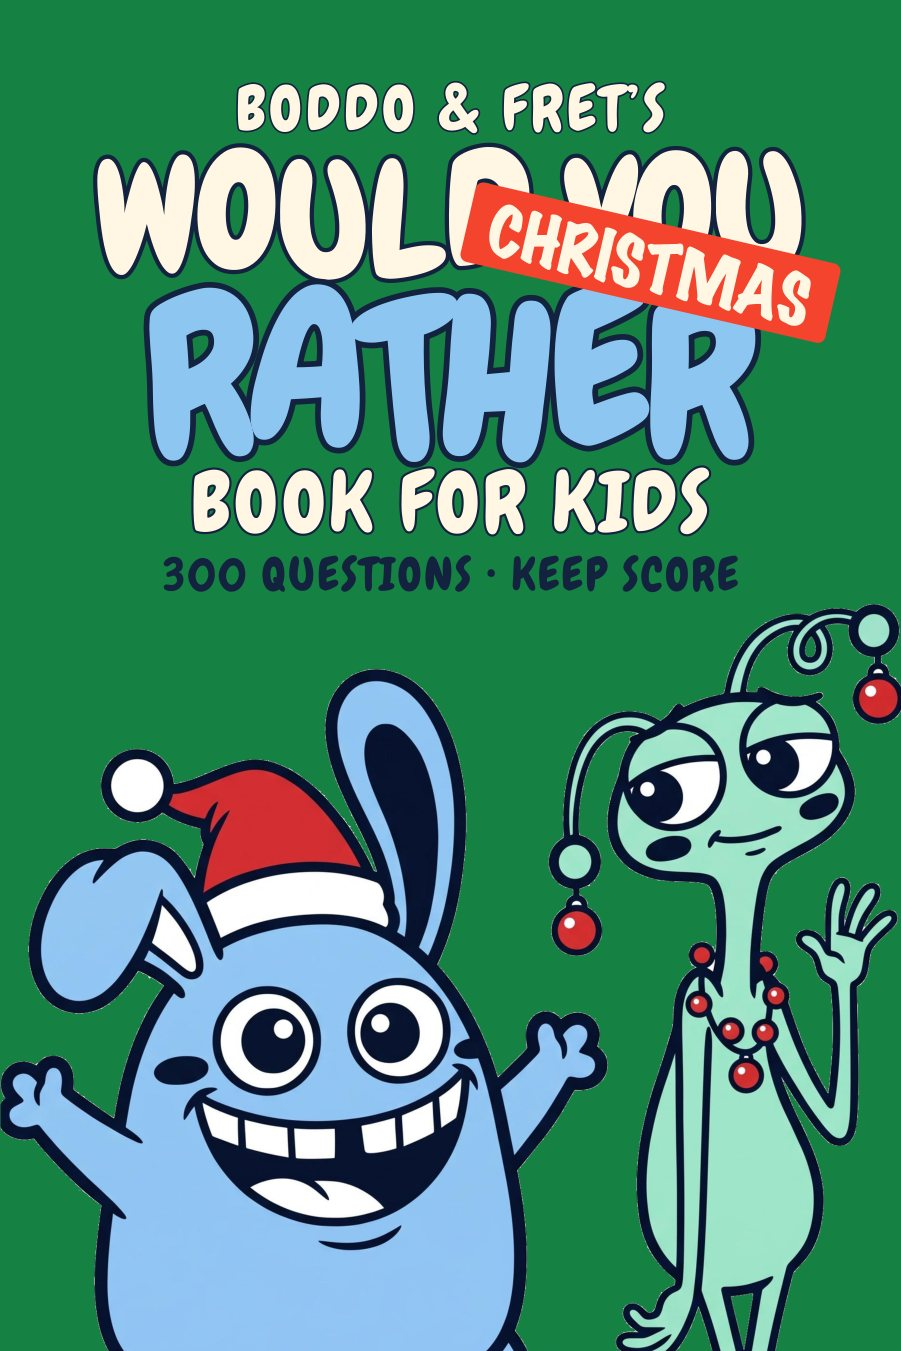
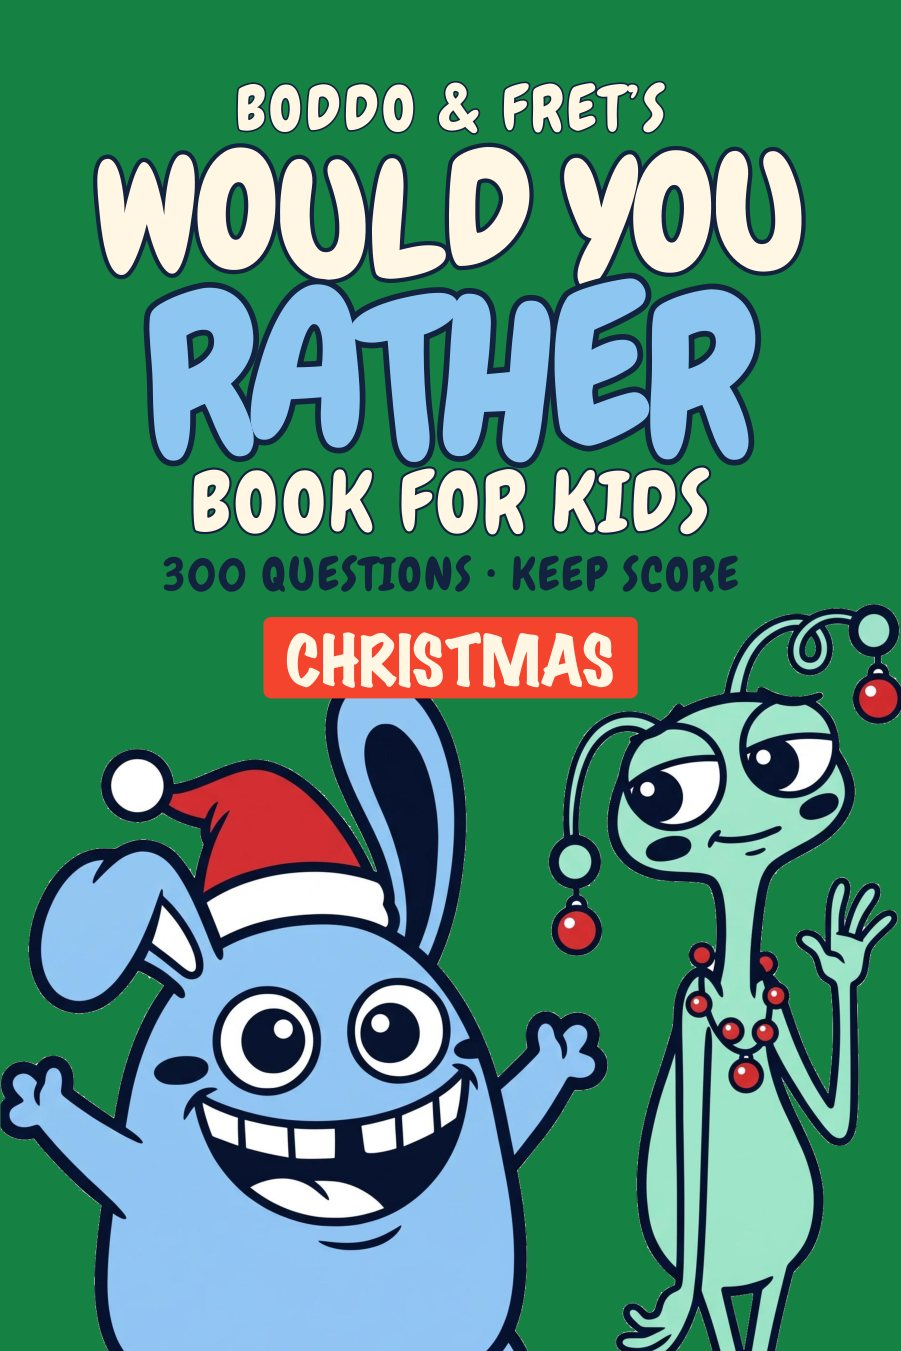
new covers, and the schema.org record stops lying about two things
The three game covers carry the flavour sticker below the phrase now instead of
across it, so the cover crops and the book pages are re-derived. Book 1's cover
is byte-identical — its page changed only in the JSON-LD, below.

⛔ AND READING THE DIFF BEFORE PUSHING FOUND TWO FAULTS IN THE STRUCTURED DATA,
which is the half of a book page a search engine reads and a human never does:

  numberOfPages  110 → 118 on all four. The line builds at 118 by the author's
                 5 Sept decision to run 8 pages over KDP's flat band; 110
                 predates it. A week wrong on four books.
  typicalAgeRange  6-10 → 8-12 on wyr-older. 📌 The FOURTH place today the same
                 6-10 default has been caught printing over a book that says
                 otherwise — after the scaffold writing it into that book's own
                 inputs, A+ module 2's pixels, and A+ module 2's image keywords.

⭐ Both came from `GENRES[...]`, a LINE-level table. The comment directly above
`book_page` already moved four colouring-line facts out of the TEMPLATE and into
GENRES, and was right to — but a page count and an age band are not line facts
either. They now derive per book: the extent off the BUILT interior.pdf, the
band off the edition's own subtitle, with the genre values kept only as the
fallback for a book whose interior does not exist yet.

📌 `CLAUDE.md`: "the build prints it on every run; quote that, never a number
typed in prose."
[…]

Changed region(s): [[0.2797, 0.4352, 0.7148, 0.5285], [0.4972, 0.1244, 0.9323, 0.2487]]

diff --git a/books/wyr-older/index.html b/books/wyr-older/index.html
@@ -21,7 +21,7 @@
 <link rel="icon" href="/favicon.ico" sizes="any">
 <link rel="icon" href="/favicon-32.png" type="image/png" sizes="32x32">
 <link rel="apple-touch-icon" href="/apple-touch-icon.png">
-<script type="application/ld+json">{"@context": "https://schema.org", "@type": "Book", "name": "Boddo & Fret's Would You Rather Book for Older Kids", "author": {"@type": "Organization", "name": "Milo & Moon"}, "publisher": {"@type": "Organization", "name": "Milo & Moon"}, "bookFormat": "https://schema.org/Paperback", "inLanguage": "en-GB", "numberOfPages": 110, "isbn": "9798173473615", "image": "https://miloandmoon.co.uk/books/wyr-older/cover-uk.jpg", "description": "Would you rather be praised for work that was mostly somebody else's, or blamed for work that was mostly somebody else's? Boddo says yes to everything. Fret thinks about what happens next.", "typicalAgeRange": "6-10"}</script>
+<script type="application/ld+json">{"@context": "https://schema.org", "@type": "Book", "name": "Boddo & Fret's Would You Rather Book for Older Kids", "author": {"@type": "Organization", "name": "Milo & Moon"}, "publisher": {"@type": "Organization", "name": "Milo & Moon"}, "bookFormat": "https://schema.org/Paperback", "inLanguage": "en-GB", "numberOfPages": 118, "isbn": "9798173473615", "image": "https://miloandmoon.co.uk/books/wyr-older/cover-uk.jpg", "description": "Would you rather get praised for work that was mostly somebody else's, or blamed for work that was mostly somebody else's? Boddo says yes to everything. Fret thinks about what happens next.", "typicalAgeRange": "8-12"}</script>
 </head>
 <body style="--field:#FFE6E5">
 <a class="skip" href="#main">Skip to content</a>
@@ -48,8 +48,8 @@
       <h1>Boddo &amp; Fret&#x27;s Would You Rather Book for Older Kids</h1>
       <p class="sub">300 Impossible Choices for Kids Ages 8-12</p>
       <p class="lede">300 questions. Harder than they look.</p>
-      <p>Would you rather be praised for work that was mostly somebody else&#x27;s, or blamed for work that was mostly somebody else&#x27;s? Boddo says yes to everything. Fret thinks about what happens next.</p>
-      <ul class="bullets"><li>300 would-you-rather questions, every one a real dilemma</li><li>A game to play with them, not just a list to read</li><li>Screen-free, for car journeys and sleepovers</li></ul>
+      <p>Would you rather get praised for work that was mostly somebody else&#x27;s, or blamed for work that was mostly somebody else&#x27;s? Boddo says yes to everything. Fret thinks about what happens next.</p>
+      <ul class="bullets"><li>300 would-you-rather questions, every one a real dilemma</li><li>A game to play with them, not just a list to read</li><li>Screen-free, for car journeys and sleepovers</li><li>Ten rounds, so you can play one and stop</li><li>Ages 8-12, and two of you can disagree and both be right</li></ul>
       <p class="buy soon">Coming soon — <a href="/colours/">see pages we coloured in</a> while you wait.</p>
       <p class="isbn">ISBN 9798173473615</p>
     </div>

diff --git a/books/wyr-gross/index.html b/books/wyr-gross/index.html
@@ -21,7 +21,7 @@
 <link rel="icon" href="/favicon.ico" sizes="any">
 <link rel="icon" href="/favicon-32.png" type="image/png" sizes="32x32">
 <link rel="apple-touch-icon" href="/apple-touch-icon.png">
-<script type="application/ld+json">{"@context": "https://schema.org", "@type": "Book", "name": "Boddo & Fret's Gross Would You Rather Book for Kids", "author": {"@type": "Organization", "name": "Milo & Moon"}, "publisher": {"@type": "Organization", "name": "Milo & Moon"}, "bookFormat": "https://schema.org/Paperback", "inLanguage": "en-GB", "numberOfPages": 110, "isbn": "9798173473240", "image": "https://miloandmoon.co.uk/books/wyr-gross/cover-uk.jpg", "description": "Would you rather live in a house that smells faintly of feet, or one that smells strongly of fish every Friday? Boddo says yes to everything. Fret thinks about what happens next. Your turn.", "typicalAgeRange": "6-10"}</script>
+<script type="application/ld+json">{"@context": "https://schema.org", "@type": "Book", "name": "Boddo & Fret's Gross Would You Rather Book for Kids", "author": {"@type": "Organization", "name": "Milo & Moon"}, "publisher": {"@type": "Organization", "name": "Milo & Moon"}, "bookFormat": "https://schema.org/Paperback", "inLanguage": "en-GB", "numberOfPages": 118, "isbn": "9798173473240", "image": "https://miloandmoon.co.uk/books/wyr-gross/cover-uk.jpg", "description": "Would you rather live in a house that always smells faintly of feet, or one that smells strongly of fish every Friday? Boddo says yes to everything. Fret thinks about what happens next. Your turn.", "typicalAgeRange": "6-10"}</script>
 </head>
 <body style="--field:#FCECD5">
 <a class="skip" href="#main">Skip to content</a>
@@ -48,8 +48,8 @@
       <h1>Boddo &amp; Fret&#x27;s Gross Would You Rather Book for Kids</h1>
       <p class="sub">300 Impossible Choices for Kids Ages 6-10</p>
       <p class="lede">300 questions. Not one of them nice.</p>
-      <p>Would you rather live in a house that smells faintly of feet, or one that smells strongly of fish every Friday? Boddo says yes to everything. Fret thinks about what happens next. Your turn.</p>
-      <ul class="bullets"><li>300 would-you-rather questions, every one a real dilemma</li><li>A game to play with them, not just a list to read</li><li>Screen-free, for car journeys and sleepovers</li></ul>
+      <p>Would you rather live in a house that always smells faintly of feet, or one that smells strongly of fish every Friday? Boddo says yes to everything. Fret thinks about what happens next. Your turn.</p>
+      <ul class="bullets"><li>300 would-you-rather questions, every one a real dilemma</li><li>A game to play with them, not just a list to read</li><li>Screen-free, for car journeys and sleepovers</li><li>Ten rounds, so you can play one and stop</li><li>Ages 6-10, and a six-year-old can read it out</li></ul>
       <p class="buy soon">Coming soon — <a href="/colours/">see pages we coloured in</a> while you wait.</p>
       <p class="isbn">ISBN 9798173473240</p>
     </div>

diff --git a/books/wyr-christmas/index.html b/books/wyr-christmas/index.html
@@ -21,7 +21,7 @@
 <link rel="icon" href="/favicon.ico" sizes="any">
 <link rel="icon" href="/favicon-32.png" type="image/png" sizes="32x32">
 <link rel="apple-touch-icon" href="/apple-touch-icon.png">
-<script type="application/ld+json">{"@context": "https://schema.org", "@type": "Book", "name": "Boddo & Fret's Christmas Would You Rather Book for Kids", "author": {"@type": "Organization", "name": "Milo & Moon"}, "publisher": {"@type": "Organization", "name": "Milo & Moon"}, "bookFormat": "https://schema.org/Paperback", "inLanguage": "en-GB", "numberOfPages": 110, "image": "https://miloandmoon.co.uk/books/wyr-christmas/cover-uk.jpg", "description": "Would you rather have a snowman who follows you, or one who stays put and complains? Boddo says yes to everything. Fret thinks about what happens next. Your turn, all the way to Boxing Day.", "typicalAgeRange": "6-10"}</script>
+<script type="application/ld+json">{"@context": "https://schema.org", "@type": "Book", "name": "Boddo & Fret's Christmas Would You Rather Book for Kids", "author": {"@type": "Organization", "name": "Milo & Moon"}, "publisher": {"@type": "Organization", "name": "Milo & Moon"}, "bookFormat": "https://schema.org/Paperback", "inLanguage": "en-GB", "numberOfPages": 118, "image": "https://miloandmoon.co.uk/books/wyr-christmas/cover-uk.jpg", "description": "Would you rather build a snowman who follows you, or one who stays put and complains? Boddo says yes to everything. Fret thinks about what happens next. Your turn, all the way to New Year.", "typicalAgeRange": "6-10"}</script>
 </head>
 <body style="--field:#DCF4E1">
 <a class="skip" href="#main">Skip to content</a>
@@ -48,8 +48,8 @@
       <h1>Boddo &amp; Fret&#x27;s Christmas Would You Rather Book for Kids</h1>
       <p class="sub">300 Impossible Choices for Kids Ages 6-10</p>
       <p class="lede">300 questions. Christmas takes forever.</p>
-      <p>Would you rather have a snowman who follows you, or one who stays put and complains? Boddo says yes to everything. Fret thinks about what happens next. Your turn, all the way to Boxing Day.</p>
-      <ul class="bullets"><li>300 would-you-rather questions, every one a real dilemma</li><li>A game to play with them, not just a list to read</li><li>Screen-free, for car journeys and sleepovers</li></ul>
+      <p>Would you rather build a snowman who follows you, or one who stays put and complains? Boddo says yes to everything. Fret thinks about what happens next. Your turn, all the way to New Year.</p>
+      <ul class="bullets"><li>300 would-you-rather questions, every one a real dilemma</li><li>A game to play with them, not just a list to read</li><li>Screen-free, for car journeys and sleepovers</li><li>Ten rounds, so you can play one and stop</li><li>Ages 6-10, and a six-year-old can read it out</li></ul>
       <p class="buy soon">Coming soon — <a href="/colours/">see pages we coloured in</a> while you wait.</p>
       
     </div>

diff --git a/books/wyr-original/index.html b/books/wyr-original/index.html
@@ -21,7 +21,7 @@
 <link rel="icon" href="/favicon.ico" sizes="any">
 <link rel="icon" href="/favicon-32.png" type="image/png" sizes="32x32">
 <link rel="apple-touch-icon" href="/apple-touch-icon.png">
-<script type="application/ld+json">{"@context": "https://schema.org", "@type": "Book", "name": "Boddo & Fret's Would You Rather Book for Kids", "author": {"@type": "Organization", "name": "Milo & Moon"}, "publisher": {"@type": "Organization", "name": "Milo & Moon"}, "bookFormat": "https://schema.org/Paperback", "inLanguage": "en-GB", "numberOfPages": 110, "isbn": "9798172887796", "image": "https://miloandmoon.co.uk/books/wyr-original/cover-uk.jpg", "description": "Would you rather eat a sandwich made entirely of cake, or a cake made entirely of sandwiches? Boddo says yes to everything. Fret thinks about what happens next. Your turn.", "typicalAgeRange": "6-10"}</script>
+<script type="application/ld+json">{"@context": "https://schema.org", "@type": "Book", "name": "Boddo & Fret's Would You Rather Book for Kids", "author": {"@type": "Organization", "name": "Milo & Moon"}, "publisher": {"@type": "Organization", "name": "Milo & Moon"}, "bookFormat": "https://schema.org/Paperback", "inLanguage": "en-GB", "numberOfPages": 118, "isbn": "9798172887796", "image": "https://miloandmoon.co.uk/books/wyr-original/cover-uk.jpg", "description": "Would you rather eat a sandwich made entirely of cake, or a cake made entirely of sandwiches? Boddo says yes to everything. Fret thinks about what happens next. Your turn.", "typicalAgeRange": "6-10"}</script>
 </head>
 <body style="--field:#FFE7DF">
 <a class="skip" href="#main">Skip to content</a>
